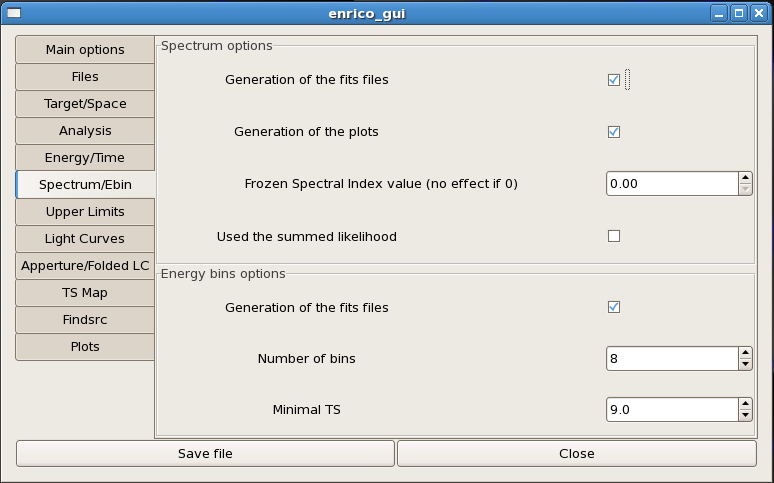
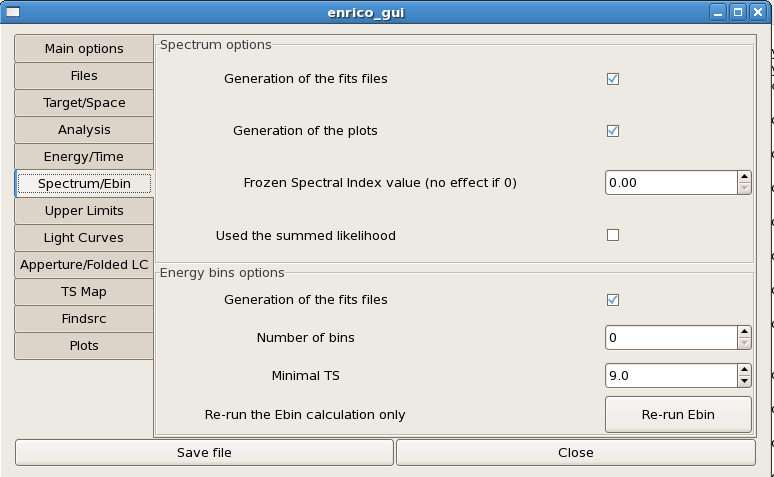
add a button to re-run ebin

diff --git a/enrico/gui.py b/enrico/gui.py
@@ -11,6 +11,11 @@ class EnricoGui:
        self.save(None,None)
        os.system(data+" "+self.infile)
 
+    def LaunchEbin(self,widget,data=None):
+       self.save(None,None)
+       if self.config["Ebin"]["NumEnergyBins"]>0 :
+           os.system("enrico_sed "+self.config["out"]+'/Ebin'+str(self.config["Ebin"]["NumEnergyBins"])+"/*conf" )
+
     def Sync(self, widget, data=None):
        self.x.set_value(self.ra.get_value())
        self.y.set_value(self.dec.get_value())
@@ -735,6 +740,14 @@ class EnricoGui:
         label.show()
         tableebin.attach(label,0, 2,2,3)
         tableebin.attach(self.tsebin,3,4,2,3)
+
+        label = gtk.Label("Re-run the Ebin calculation only")
+        label.show()
+        ebinbutton = gtk.Button("Re-run Ebin")  
+        ebinbutton.connect("clicked", self.LaunchEbin, '')
+        ebinbutton.show()
+        tableebin.attach(label,0, 2,3,4)
+        tableebin.attach(ebinbutton,3,4,3,4)
 
     def _addUL(self):
         BNPage = self.AddBlocNotePage("Upper Limits")
